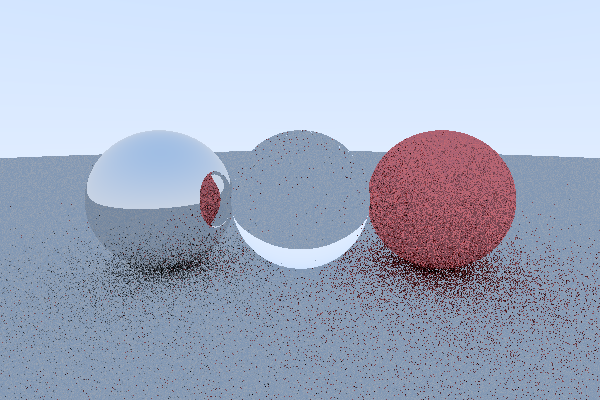
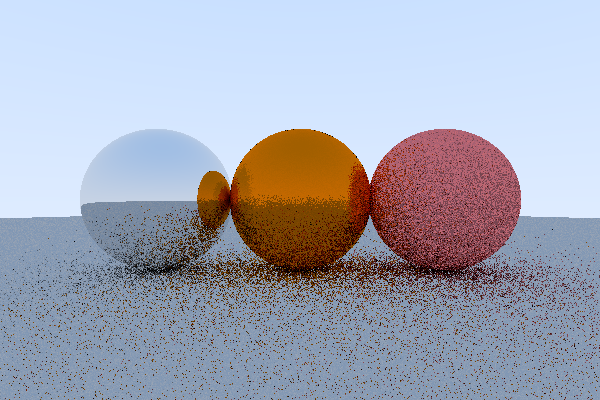
calculate inside or outside hit at ray intersecting time

diff --git a/Renderer.py b/Renderer.py
@@ -21,6 +21,11 @@ class HitPayload:
     WorldPosition: np.ndarray = np.zeros((1, 3, 1))
     WorldNormal: np.ndarray = np.zeros((1, 3, 1))
     ObjectIndex: int = 0
+    FrontFace: bool = True
+
+    def set_face_normal(self, r: Ray, outward_normal: np.ndarray((3, 1))):
+        self.FrontFace = np.dot(r.Direction.T, outward_normal) < 0
+        self.WorldNormal = outward_normal if self.FrontFace else -outward_normal
 
 def _init(shared_arr_):
     # The shared array pointer is a global variable so that it can be accessed by the
@@ -179,7 +184,7 @@ class Renderer:
 
         worldPosition = ray.Origin + hitDistance * ray.Direction
         outwardNormal = (worldPosition - closestSphere.Position) / closestSphere.Radius
-        payload.WorldNormal = outwardNormal
+        payload.set_face_normal(ray, outwardNormal)
         payload.WorldPosition = worldPosition
 
         return payload

diff --git a/main.py b/main.py
@@ -8,7 +8,7 @@ import time
 
 width = 600
 height = 400
-camPosition = np.array([[0],[2],[5]])
+camPosition = np.array([[0],[1],[5]])
 camLookat = np.array([[0],[1],[0]])
 
 cam = Camera(60.0, camPosition, camLookat, width, height, antiAliasing=False)
@@ -18,7 +18,7 @@ renderer = Renderer(width, height)
 
 spheres = list()
 spheres.append(Sphere(np.array([[0], [-1000], [0]]), 1000.0, np.array([[0.5], [0.5], [0.5]]), Material=Lambertian()))
-spheres.append(Sphere(np.array([[0], [1], [0]]), 1, np.array([[0], [0], [0]]), Material=Dielectric(1.5)))
+spheres.append(Sphere(np.array([[0], [1], [0]]), 1, np.array([[0.8], [0.2], [0]]), Material=Metal(0.2)))
 spheres.append(Sphere(np.array([[-2], [1], [0]]), 1, np.array([[0.8], [0.8], [0.8]]), Material=Metal(0.0)))
 spheres.append(Sphere(np.array([[2], [1], [0]]), 1, np.array([[0.8], [0.2], [0.2]]), Material=Lambertian()))
 

diff --git a/Material.py b/Material.py
@@ -37,8 +37,7 @@ class Dielectric(Material):
 
     def scatter(self, albedo, rayIn: Ray, hitPayload: HitPayload) -> (Ray, np.ndarray((3, 1)), bool):
         attenuation = np.array([[1.0],[1.0],[1.0]])
-        frontFace = np.dot(rayIn.Direction.T, hitPayload.WorldNormal) < 0
-        refractionRate = 1.0/self.ir if frontFace else self.ir
+        refractionRate = 1.0/self.ir if hitPayload.FrontFace else self.ir
 
         unitDirection = Utils.normalize(rayIn.Direction)
         cos_theta = np.fmin(np.dot(-unitDirection.T, hitPayload.WorldNormal), 1.0)
